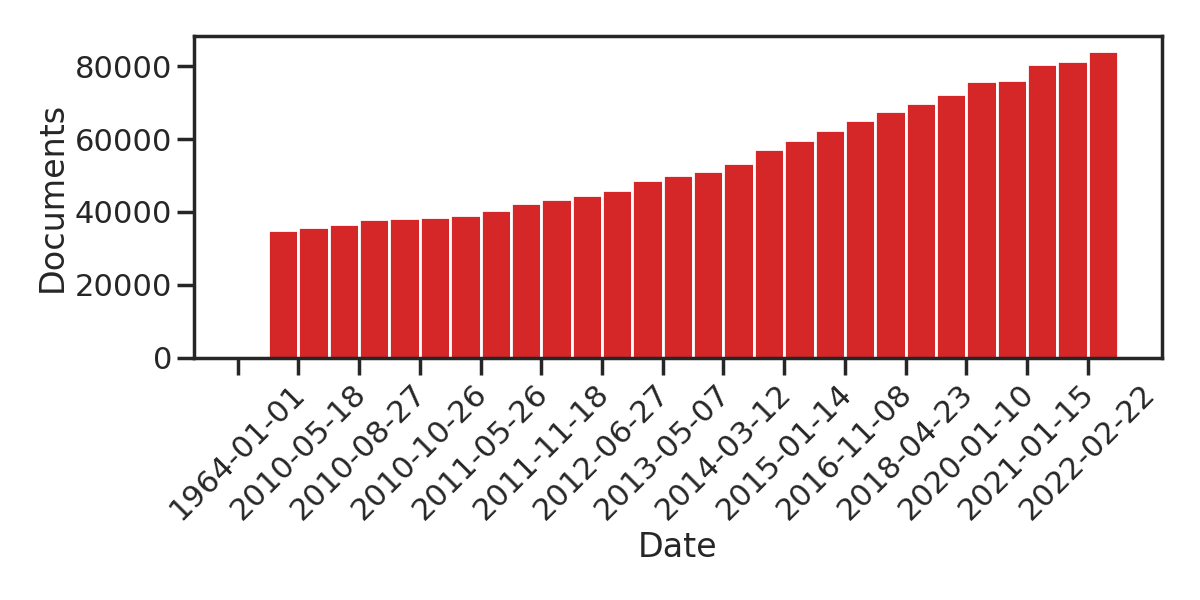
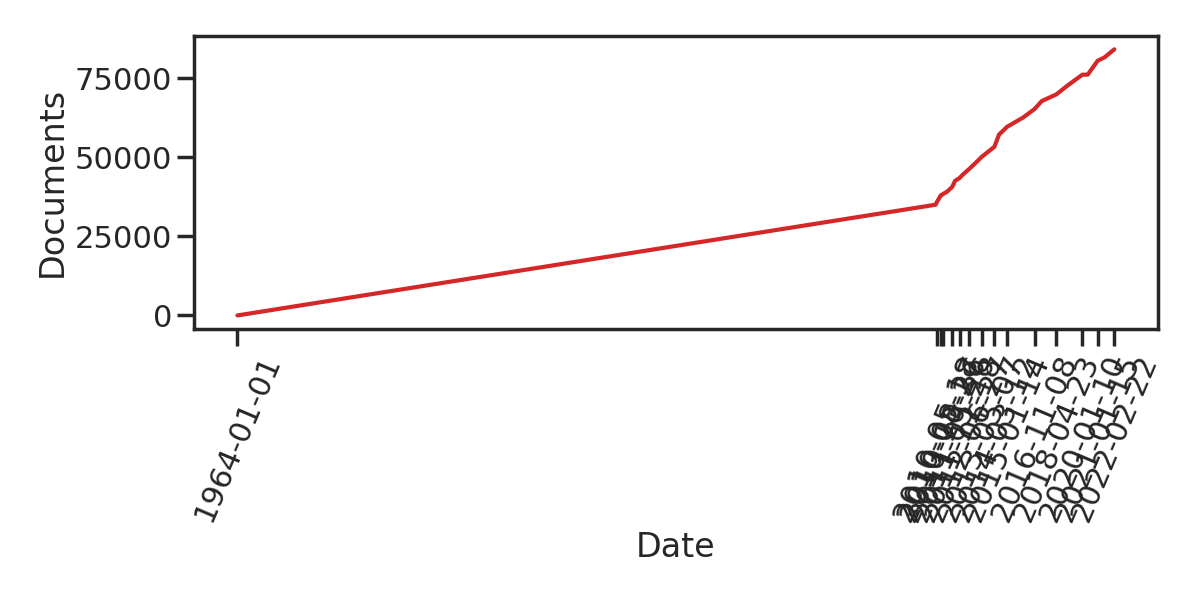
Changing plotting settings

diff --git a/plot-entries.py b/plot-entries.py
@@ -87,7 +87,6 @@ RNAi_assay_dates, RNAi_assay_sources = load_pubchem_data(filename="./data/pubche
 
 # plot the PubChem data
 fig, ax = plt.subplots(1, 1, figsize=(15,5))
-x = np.arange(len(substance_dates))
 ax.plot(substance_dates, substance_sources, label=f"Substances", color=palette2[0])
 ax.plot(substance_dates, substance_sources+assay_sources, label=f"Assays", color=palette2[1])
 ax.plot(substance_dates, substance_sources+assay_sources+RNAi_assay_sources, label=f"RNAi assays", color=palette2[2])
@@ -105,12 +104,11 @@ chembl_versions, chembl_dates, chembl_compounds, chembl_activities, chembl_assay
 
 # plot the PubChem data
 fig, ax = plt.subplots(1, 1, figsize=(12,6))
-x = np.arange(len(chembl_dates))
-ax.bar(x=x, height=chembl_documents, color=palette2[3], width=1, align="edge")
+ax.plot(chembl_dates, chembl_documents, color=palette2[3])
 ax.set(xlabel="Date",
        ylabel="Documents",
-       xticks=x[::2])
-ax.set_xticklabels(labels=chembl_dates[::2], rotation=45)
+       xticks=chembl_dates[::2])
+ax.set_xticklabels(labels=chembl_dates[::2], rotation=67)
 fig.tight_layout()
 fig.savefig("chembl-documents.png")
 
